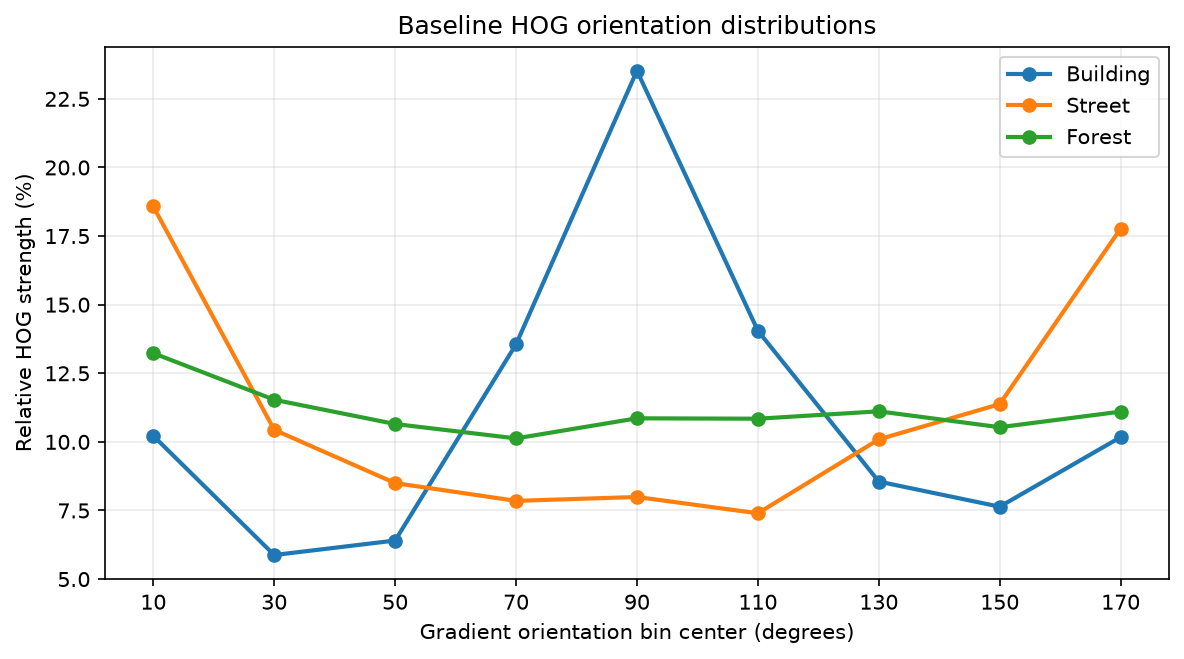
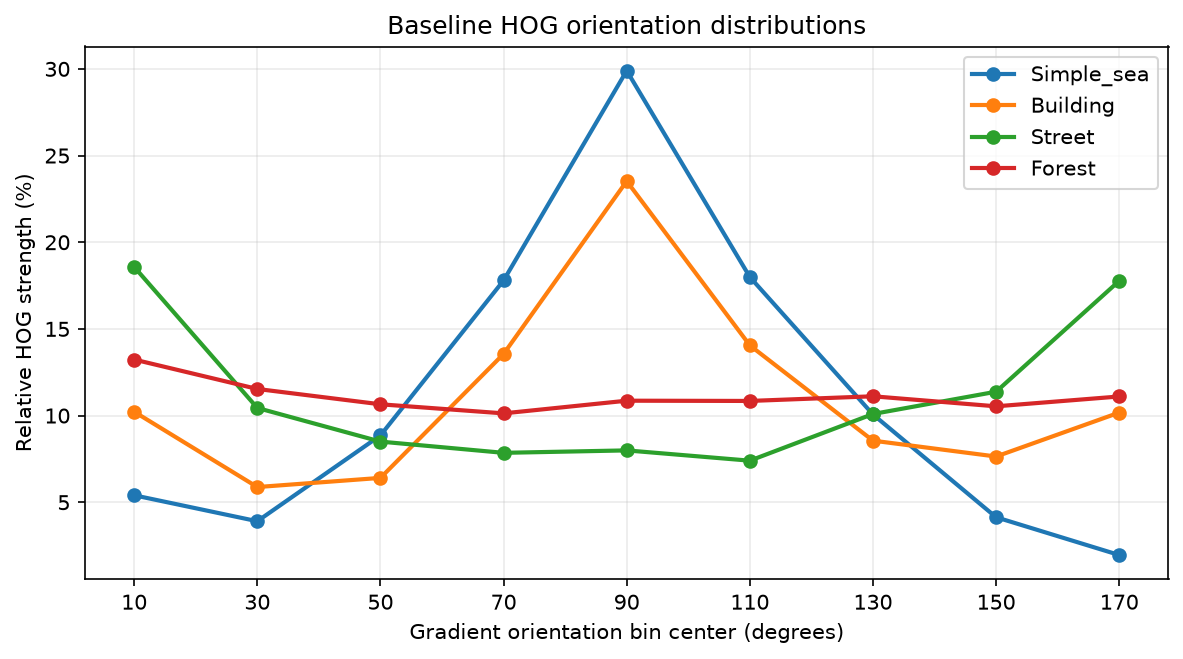
Improve HOG scene comparison

diff --git a/src/hog.py b/src/hog.py
@@ -34,6 +34,7 @@ def load_grayscale_image(image_path):
 
 
 def gradient_magnitude(image):
+    # Separate illustration: scikit-image HOG computes its own gradients.
     gradient_x = cv2.Sobel(image, cv2.CV_64F, 1, 0, ksize=3)
     gradient_y = cv2.Sobel(image, cv2.CV_64F, 0, 1, ksize=3)
     magnitude = np.hypot(gradient_x, gradient_y)
@@ -117,6 +118,7 @@ def save_parameter_comparison(image, output_directory):
 
 
 def baseline_orientation_distribution(image):
+    # Relative descriptor strength after block normalization, not edge counts.
     feature_blocks = hog(
         image,
         orientations=BASELINE["orientations"],
@@ -172,6 +174,7 @@ def main():
         / "seg_train"
     )
     image_paths = {
+        "simple_sea": dataset_directory / "sea" / "10399.jpg",
         "building": dataset_directory / "buildings" / "1001.jpg",
         "street": dataset_directory / "street" / "10019.jpg",
         "forest": dataset_directory / "forest" / "10037.jpg",
